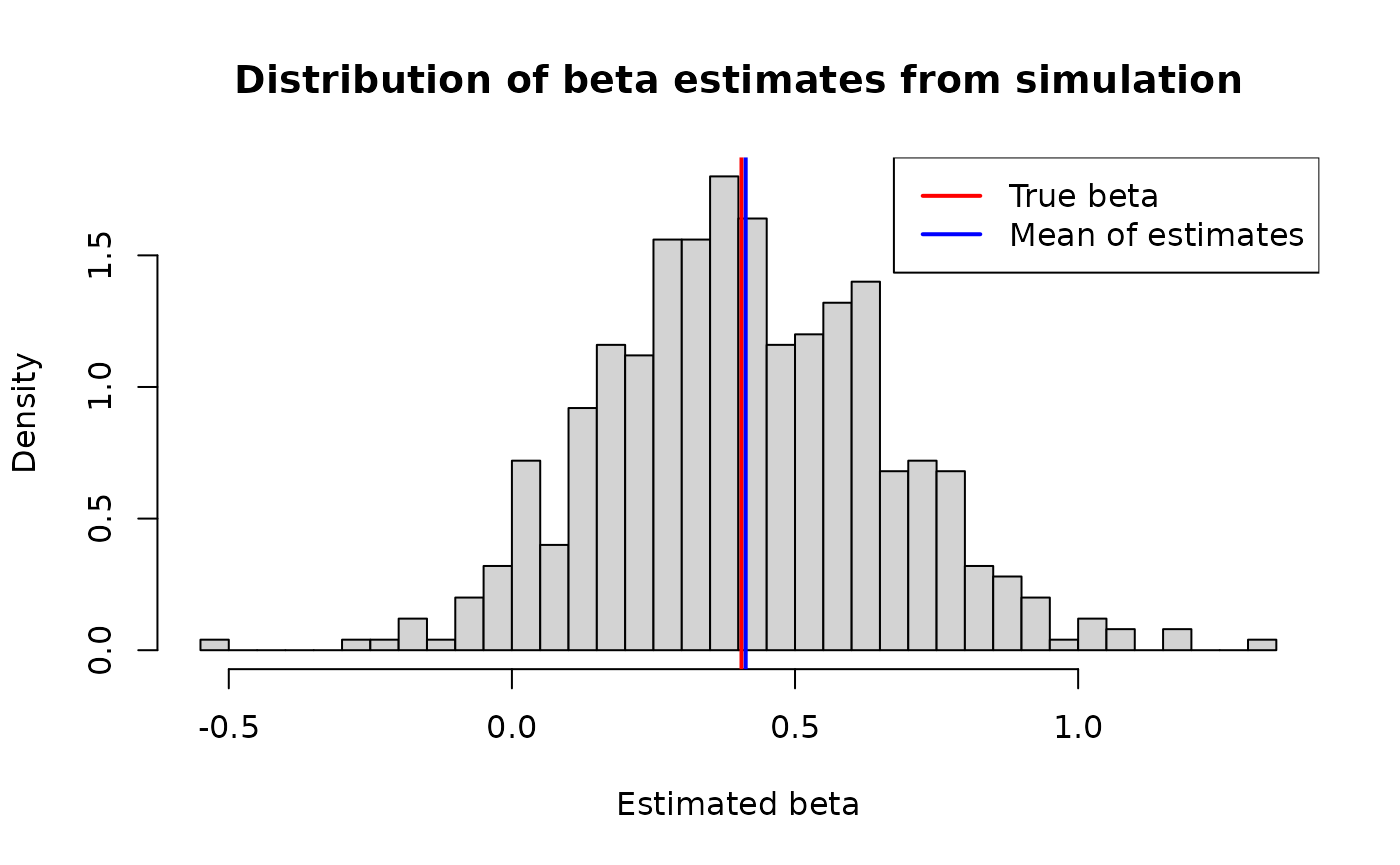
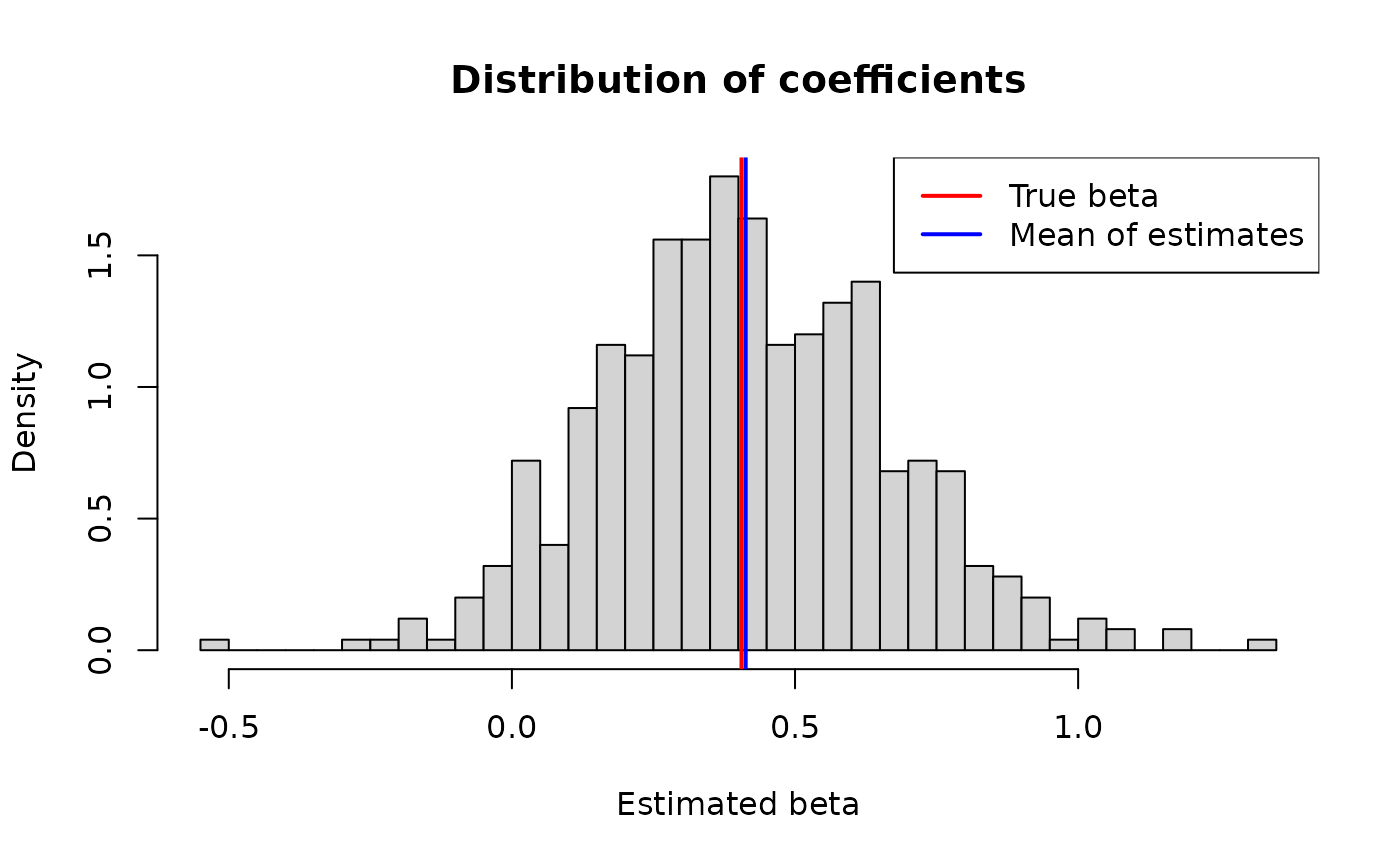
Deploying to gh-pages from @ MoserGitHub/presizepo@77d6bb22df971387b44c28c893f463c9daad9119 🚀

Changed region(s): [[0.1536, 0.0624, 0.8907, 0.1249]]

diff --git a/articles/presizepo.html b/articles/presizepo.html
@@ -380,7 +380,7 @@ the empirical standard error with the one predicted by
 <span>    <span class="fu"><a href="https://rdrr.io/pkg/MASS/man/polr.html" class="external-link">polr</a></span><span class="op">(</span><span class="fu"><a href="https://rdrr.io/r/base/factor.html" class="external-link">factor</a></span><span class="op">(</span><span class="va">y</span><span class="op">)</span> <span class="op">~</span> <span class="va">x</span>, method <span class="op">=</span> <span class="st">"logistic"</span>, Hess <span class="op">=</span> <span class="cn">TRUE</span><span class="op">)</span></span>
 <span>  <span class="op">)</span></span>
 <span>  </span>
-<span>  <span class="co"># Extract beta estimate (slope coefficient)</span></span>
+<span>  <span class="co"># Extract coeff</span></span>
 <span>  <span class="va">beta_hats</span><span class="op">[</span><span class="va">i</span><span class="op">]</span> <span class="op">&lt;-</span> <span class="fu"><a href="https://rdrr.io/r/base/unname.html" class="external-link">unname</a></span><span class="op">(</span><span class="fu"><a href="https://rdrr.io/r/stats/coef.html" class="external-link">coef</a></span><span class="op">(</span><span class="va">fit</span><span class="op">)</span><span class="op">)</span></span>
 <span><span class="op">}</span></span>
 <span></span>
@@ -388,18 +388,12 @@ the empirical standard error with the one predicted by
 <span><span class="va">emp_se</span> <span class="op">&lt;-</span> <span class="fu"><a href="https://rdrr.io/r/stats/sd.html" class="external-link">sd</a></span><span class="op">(</span><span class="va">beta_hats</span><span class="op">)</span></span>
 <span><span class="fu"><a href="https://rdrr.io/r/base/cat.html" class="external-link">cat</a></span><span class="op">(</span><span class="st">"Empirical SE (from simulation):"</span>, <span class="va">emp_se</span>, <span class="st">"\n"</span><span class="op">)</span></span>
 <span><span class="co">#&gt; Empirical SE (from simulation): 0.2521338</span></span>
-<span><span class="fu"><a href="https://rdrr.io/r/base/cat.html" class="external-link">cat</a></span><span class="op">(</span><span class="st">"Ratio (empirical / predicted):"</span>, <span class="va">emp_se</span> <span class="op">/</span> <span class="va">pred_se</span><span class="op">[[</span><span class="st">"se_log_OR"</span><span class="op">]</span><span class="op">]</span>, <span class="st">"\n"</span><span class="op">)</span></span>
-<span><span class="co">#&gt; Ratio (empirical / predicted): 1.01009</span></span></code></pre></div>
+<span><span class="fu"><a href="https://rdrr.io/r/base/cat.html" class="external-link">cat</a></span><span class="op">(</span><span class="st">"Ratio (empirical / presizepo):"</span>, <span class="va">emp_se</span> <span class="op">/</span> <span class="va">pred_se</span><span class="op">[[</span><span class="st">"se_log_OR"</span><span class="op">]</span><span class="op">]</span>, <span class="st">"\n"</span><span class="op">)</span></span>
+<span><span class="co">#&gt; Ratio (empirical / presizepo): 1.01009</span></span></code></pre></div>
 <p>The empirical SE from the simulation should closely match the
 predicted SE, validating the theoretical calculations. The ratio should
 be close to 1.</p>
-<p>We can also visualize the distribution of beta estimates:</p>
-<div class="sourceCode" id="cb12"><pre class="downlit sourceCode r">
-<code class="sourceCode R"><span><span class="fu"><a href="https://rdrr.io/r/graphics/hist.html" class="external-link">hist</a></span><span class="op">(</span><span class="va">beta_hats</span>, breaks <span class="op">=</span> <span class="fl">30</span>, main <span class="op">=</span> <span class="st">"Distribution of beta estimates from simulation"</span>,</span>
-<span>     xlab <span class="op">=</span> <span class="st">"Estimated beta"</span>, freq <span class="op">=</span> <span class="cn">FALSE</span><span class="op">)</span></span>
-<span><span class="fu"><a href="https://rdrr.io/r/graphics/abline.html" class="external-link">abline</a></span><span class="op">(</span>v <span class="op">=</span> <span class="va">beta</span>, col <span class="op">=</span> <span class="st">"red"</span>, lwd <span class="op">=</span> <span class="fl">2</span><span class="op">)</span></span>
-<span><span class="fu"><a href="https://rdrr.io/r/graphics/abline.html" class="external-link">abline</a></span><span class="op">(</span>v <span class="op">=</span> <span class="fu"><a href="https://rdrr.io/r/base/mean.html" class="external-link">mean</a></span><span class="op">(</span><span class="va">beta_hats</span><span class="op">)</span>, col <span class="op">=</span> <span class="st">"blue"</span>, lwd <span class="op">=</span> <span class="fl">2</span><span class="op">)</span></span>
-<span><span class="fu"><a href="https://rdrr.io/r/graphics/legend.html" class="external-link">legend</a></span><span class="op">(</span><span class="st">"topright"</span>, <span class="fu"><a href="https://rdrr.io/r/base/c.html" class="external-link">c</a></span><span class="op">(</span><span class="st">"True beta"</span>, <span class="st">"Mean of estimates"</span><span class="op">)</span>, col <span class="op">=</span> <span class="fu"><a href="https://rdrr.io/r/base/c.html" class="external-link">c</a></span><span class="op">(</span><span class="st">"red"</span>, <span class="st">"blue"</span><span class="op">)</span>, lwd <span class="op">=</span> <span class="fl">2</span><span class="op">)</span></span></code></pre></div>
+<p>Distribution of beta estimates:</p>
 <p><img src="presizepo_files/figure-html/unnamed-chunk-12-1.png" class="r-plt" alt="" width="700"></p>
 </div>
 <div class="section level2">
